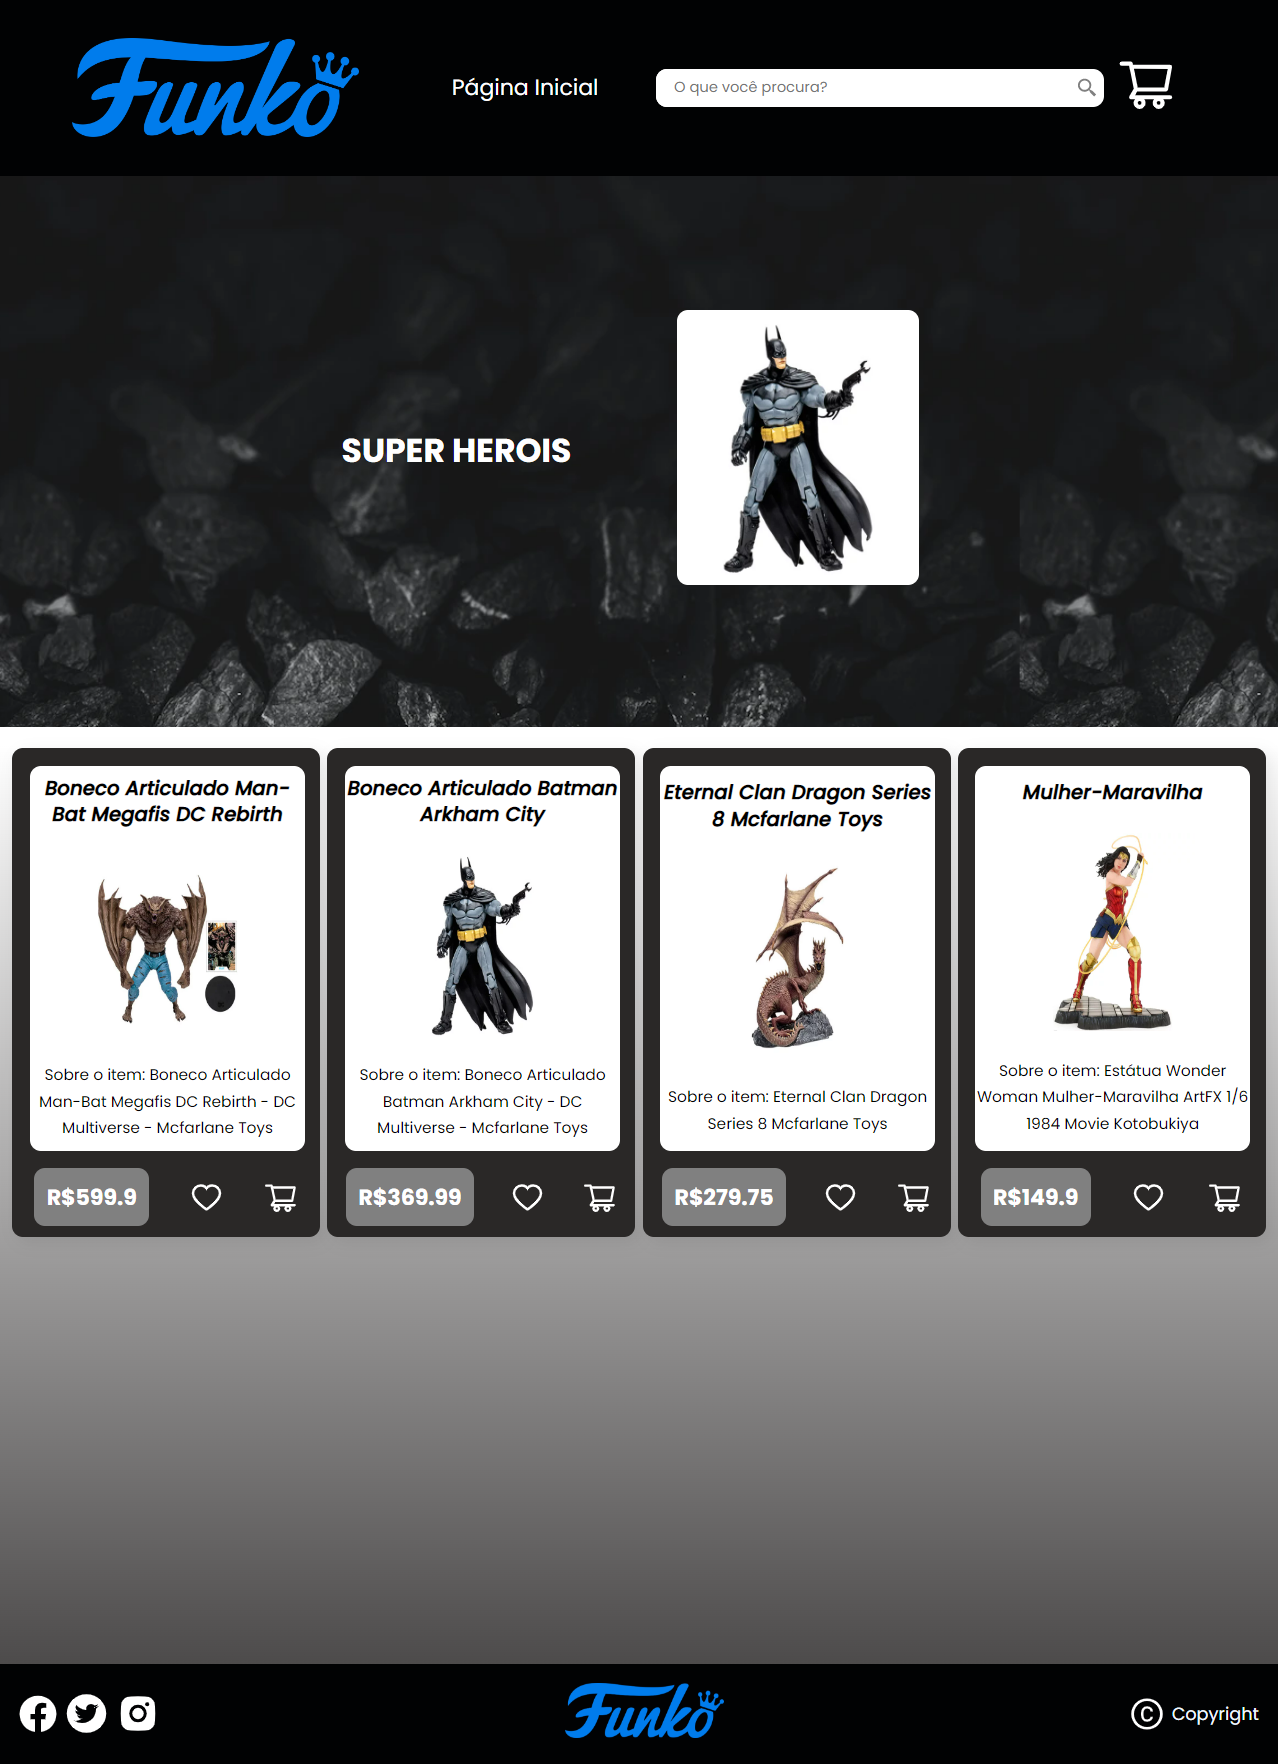
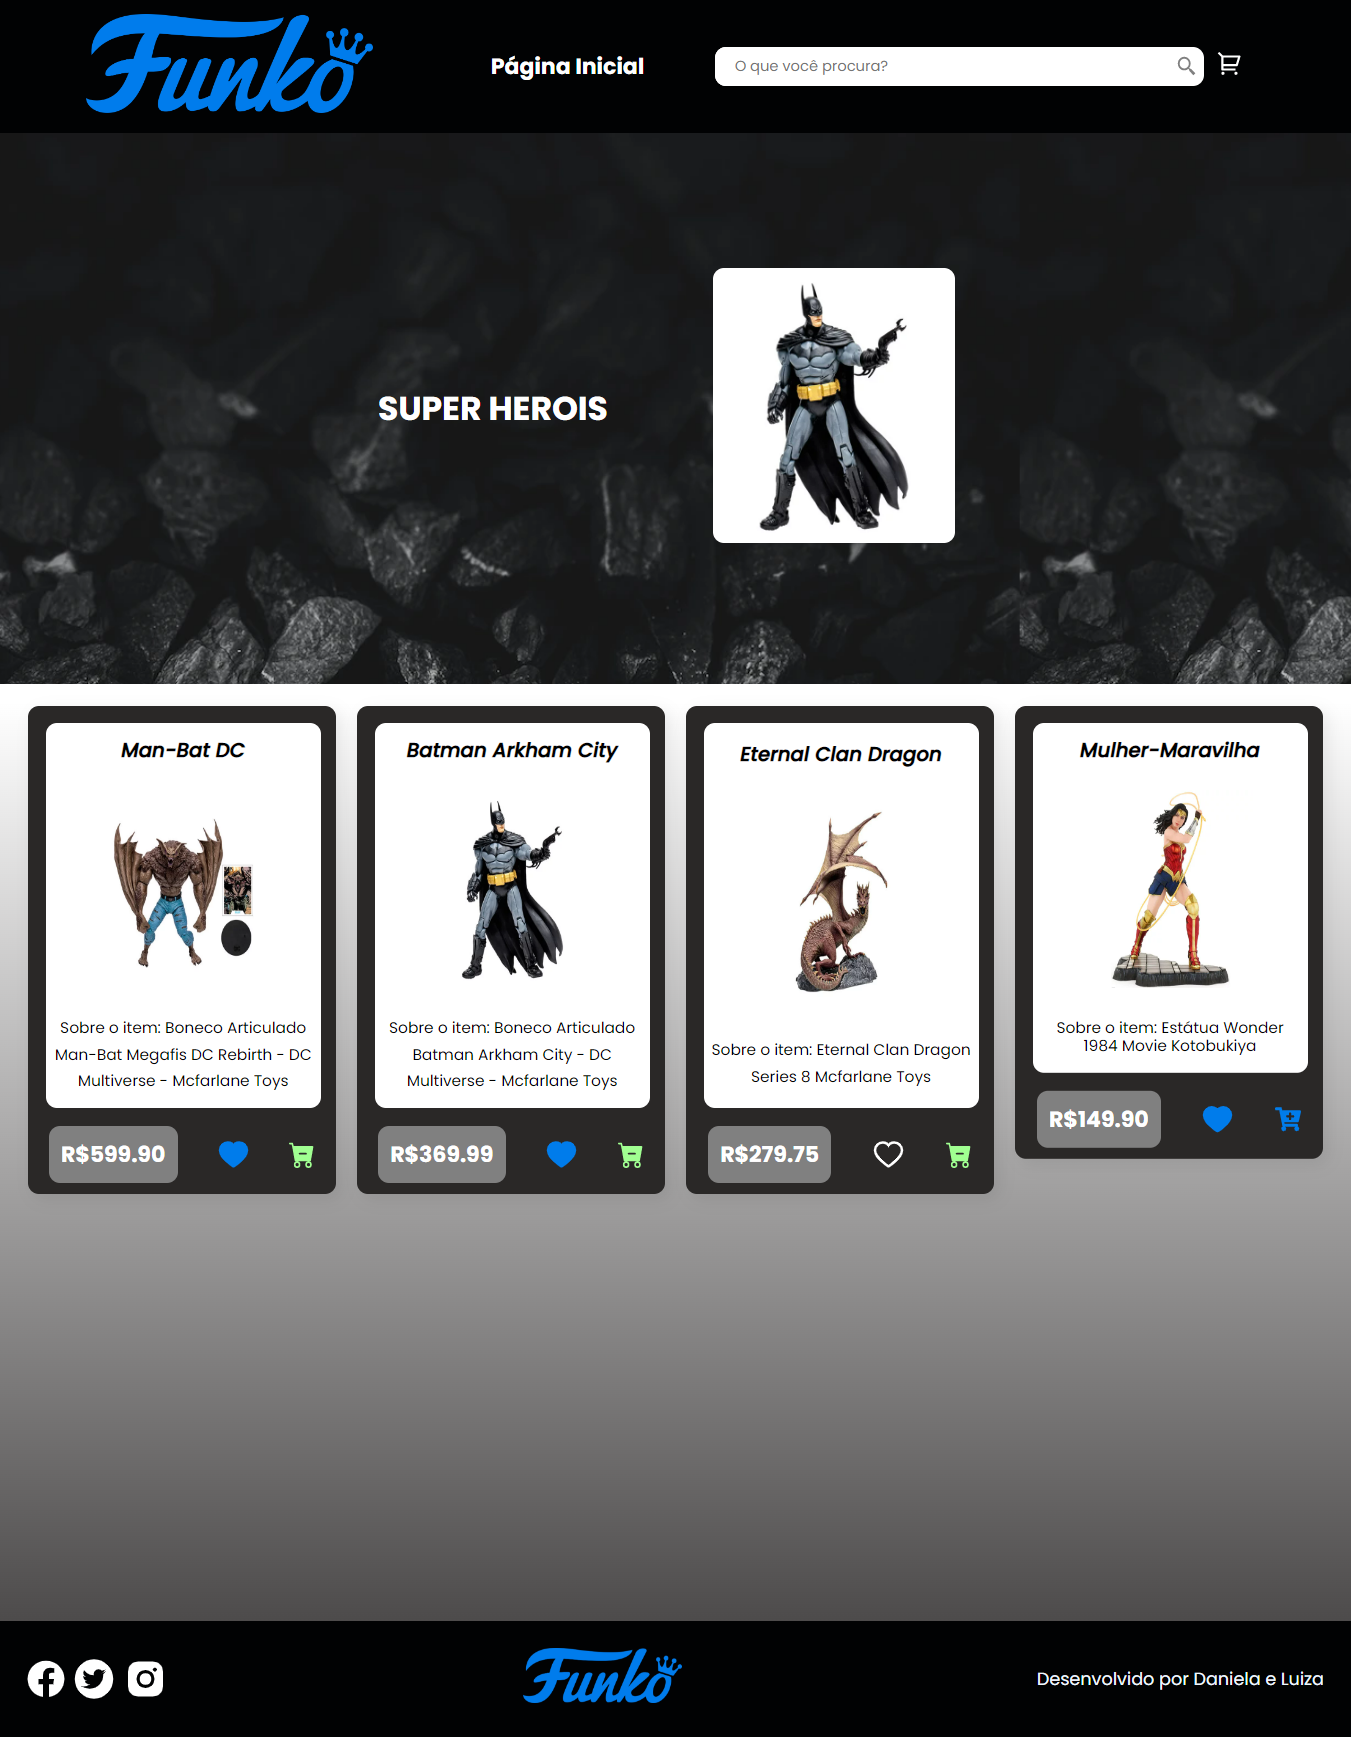
ajustes

diff --git a/src/pages/Home/Home.module.css b/src/pages/Home/Home.module.css
@@ -10,40 +10,35 @@
   padding-bottom: 5%;
   background-image: url('../../assets/background2.webp');
 }
+
 .capa {
   height: 240px;
   width: 100%;
   border-radius: 6px;
-
-
 }
 
 .titulo {
   margin-bottom: 10%;
-    color: white;
-    font-weight: 700;
+  color: white;
+  font-weight: 700;
 }
 
-.posttitulo{
+.posttitulo {
   text-align: center;
   font-size: 2.5rem;
   font-weight: 800;
   /* color: white */
-padding-top: 4%;
-padding-bottom: 4%;
- 
+  padding-top: 4%;
+  padding-bottom: 4%;
+
 }
 
 .posts {
-  /* background-color: white; */
   background-color: transparent;
-
   display: flex;
   align-items: center;
   justify-content: space-around;
   margin: 1rem;
-  /* height: 100vh; */
-  /* width: 100%; */
 }
 
 .categoriaInvalida {

diff --git a/src/components/Resumo/index.jsx b/src/components/Resumo/index.jsx
@@ -1,6 +1,4 @@
-import React, { useEffect } from "react";
-import { useSelector, useDispatch } from "react-redux";
-import itens from "store/reducers/itens";
+import { useSelector } from "react-redux";
 import styles from "./Resumo.module.css";
 
 const Resumo = () => {
@@ -45,8 +43,8 @@ const Resumo = () => {
         </div>
       </div>
       <div className={styles.barraResumo}>
-        <p>
-          Subtotal: <strong> R$ {total.toFixed(2)} </strong>
+        <p className={styles.subtotal}>
+          Subtotal: <strong> R${total.toFixed(2)} </strong>
         </p>
       </div>
     </>

diff --git a/src/components/Resumo/Resumo.module.css b/src/components/Resumo/Resumo.module.css
@@ -8,9 +8,10 @@
 .wrapperResumo {
   margin: 3.5rem;
 }
+
 .produtosTitulo {
-border-top-left-radius: 10px;
-border-top-right-radius: 10px;
+  border-top-left-radius: 10px;
+  border-top-right-radius: 10px;
   padding: 2%;
   background-color: #2a292f;
   text-align: center;
@@ -19,7 +20,7 @@ border-top-right-radius: 10px;
   font-weight: 800;
 }
 
-.hr{
+.hr {
   margin-bottom: 2%;
   text-align: center;
 }
@@ -49,9 +50,11 @@ border-top-right-radius: 10px;
 .categoriasResumo {
   font-weight: 800;
   color: white;
+
 }
 
 .categoriasResumoTitulo {
   font-weight: 800;
   color: white;
+
 }

diff --git a/src/components/CardCompra/CardCompra.module.css b/src/components/CardCompra/CardCompra.module.css
@@ -27,22 +27,21 @@
 }
 
 .barraResumo {
-  width: 50%;
+  width: 35%;
   margin-top: 2%;
-  margin-left: 33%;
-  border-radius: 20px;
+  margin-left: 55%;
+  border-radius: 10px;
   background-color: #2a292f;
   display: flex;
-  gap: 10%;
-  padding-top: 0.5%;
-  padding-bottom: 0.5%;
+  padding-top: 1%;
+  padding-bottom: 1%;
   color: white;
   font-weight: 800;
   justify-content: space-around;
 }
 
 .finalizaCompra {
-  margin-left: 68%;
+  margin-left: 77%;
   background-color: #007ceb;
   border: none;
   margin-top: 1%;

diff --git a/src/components/CardColecionavel/index.jsx b/src/components/CardColecionavel/index.jsx
@@ -89,12 +89,12 @@ const CardColecionavel = ({
             )
             : (!estaNoCarrinho ? <FaCartPlus
               {...iconeProps}
-              color="#a0ff91FF"
+              color=" #007ceb"
               className={styles['item-acao']}
               onClick={resolverCarrinho}
             /> : <BsCartDashFill
               {...iconeProps}
-              color={'#f1b0b0'}
+              color={'#a0ff91FF'}
               className={styles['item-acao']}
               onClick={resolverCarrinho}
             />)

diff --git a/src/components/CardCompra/index.jsx b/src/components/CardCompra/index.jsx
@@ -33,7 +33,7 @@ const CardCompra = () => {
                             carrinho.map(item => <CardColecionavel key={item.id} {...item} carrinho />)}
                     </div>
                     <div className={styles.barraResumo}>
-                        <p>Ver carrinho de Compras:</p>
+                        {/* <p>Ver carrinho de Compras:</p> */}
                         <p>Subtotal: <strong> R$ {total.toFixed(2)} </strong></p>
                     </div>
                     <Link to='/resumoCompra'>

diff --git a/README.md b/README.md
@@ -28,8 +28,11 @@
 - Projeto é composto por:
 - Página Home;
 - Página Categorias;
+- Página Categia não encontrada;
 - Página de Carrinho de compras;
-- Página de Erro.
+- Página de Erro;
+- Página de Resumo da compra
+
 
 ## Página Home
 
@@ -37,16 +40,37 @@
 ![](./imagens/pagina-home.png)
 
 
+## Funcionalidade pesquisa geral (por categoria e item)
+
+![](./imagens/filtro-categoria-encontrada.png)
+
 ## Página Categorias
 
 
 ![](./imagens/pagina-categoria.png)
 
 
+## Página Categoria não encontrada
+
+
+![](./imagens/categoria-nao-encontrada.png)
+
 ## Página Carrinho de Compras
 
 
 ![](./imagens/pagina-carrinho.png)
+
+
+## Página Carrinho de vazio
+
+
+![](./imagens/carrinho-vazio.png)
+
+
+## Página Resumo da compra
+
+
+![](./imagens/resumo.png)
 
 
 ## Página de Erro
